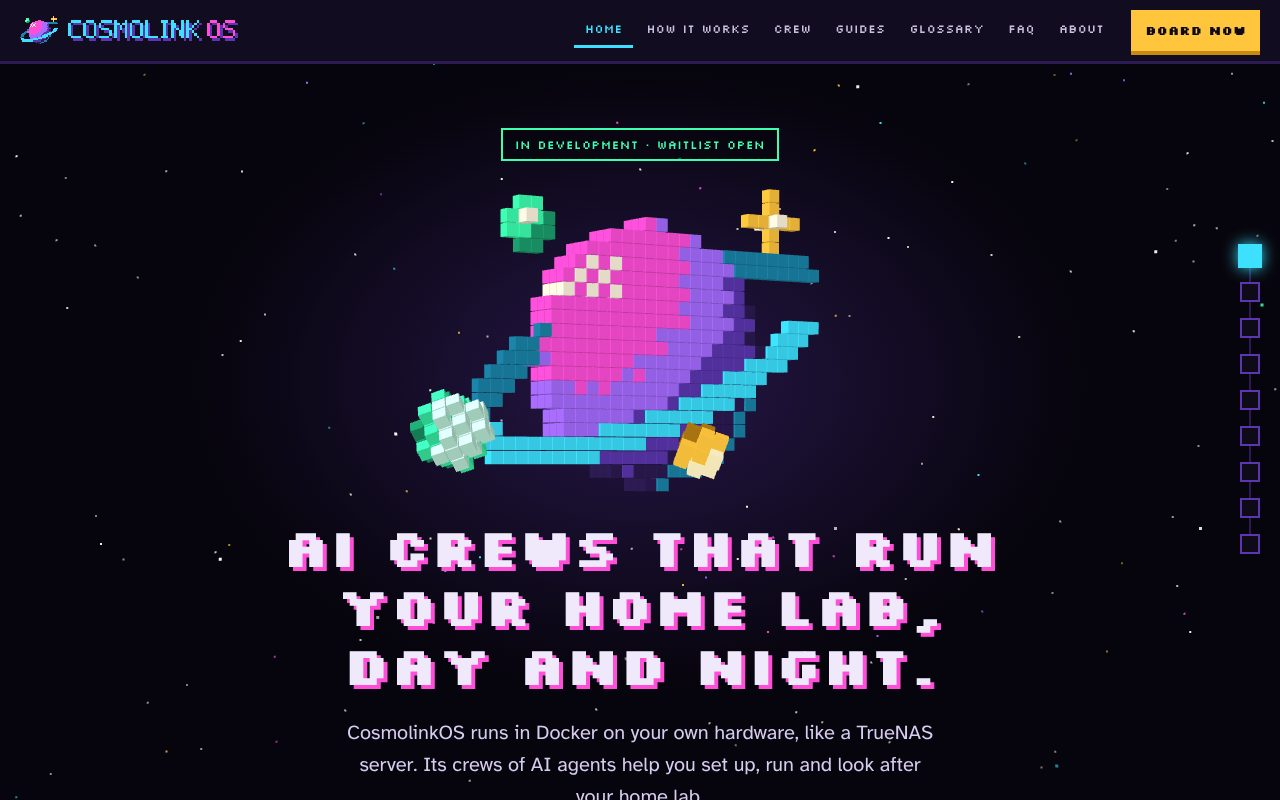
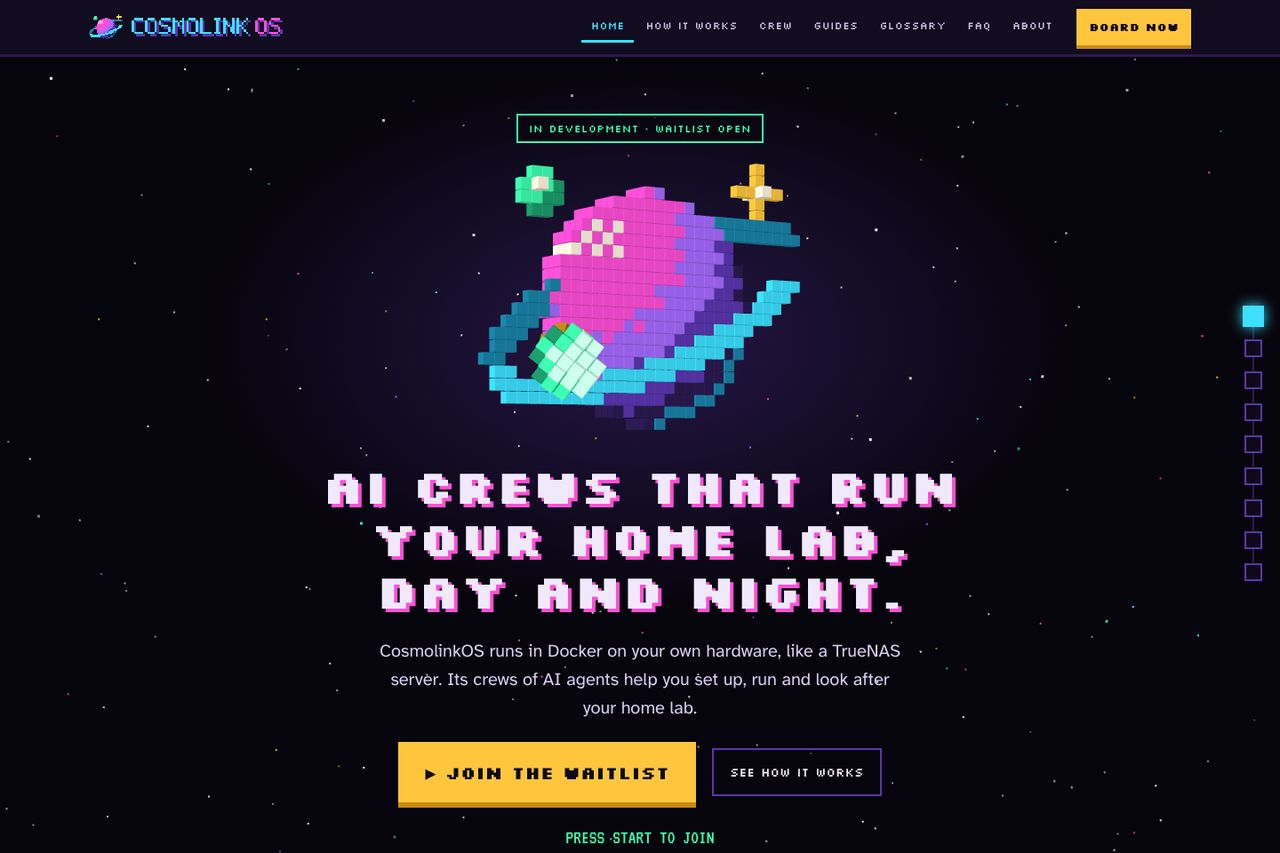
Use XpertCare and XpertCore in the menu, add black to the strip and retake the portfolio screenshot
Claude-Session: https://claude.ai/code/session_01UEox93UV93eDm6nLnQwKbf

Changed region(s): [[0.2188, 0.125, 0.7812, 1.0], [0.0, 0.0, 1.0, 0.0938], [0.9375, 0.2812, 1.0, 0.6875]]

diff --git a/src/fragments/home-lower.html b/src/fragments/home-lower.html
@@ -16,7 +16,7 @@
     <div class="panel svc rv"><div class="ill build" aria-hidden="true"><b></b><i style="--w:62%;--n:0"></i><i style="--w:88%;--n:1"></i><i style="--w:74%;--n:2"></i><u style="--n:3"></u><s style="--n:2"></s><em></em></div><h3><a href="/website-design/">Website building</a></h3><p>A new website for your business, forged with XpertCore, our own AI website builder, and finished by hand, built from the ground up to be found on Google and AI.</p><a class="more" href="/website-design/">How website design works</a></div>
     <div class="panel svc rv" style="--d:1"><div class="ill care" aria-hidden="true"><i style="--n:0"></i><i style="--n:1"></i><i style="--n:2"></i><i style="--n:3"></i><i style="--n:4"></i><i style="--n:5"></i><i style="--n:6"></i><i style="--n:7"></i><i style="--n:8"></i><i style="--n:9"></i><i style="--n:10"></i><i style="--n:11"></i><b></b></div><h3><a href="/website-maintenance/">Monthly care</a></h3><p>XpertCare keeps the website we build for you hosted, updated, backed up and growing with new content, month after month.</p><a class="more" href="/website-maintenance/">What website maintenance covers</a></div>
     <div class="panel rv"><ul class="minip"><li><span>XpertForge Starter</span><b>RM499</b></li><li class="hot"><span>XpertForge Business</span><b>RM999</b></li><li><span>XpertForge Growth</span><b>RM1,799</b></li><li class="care"><span>XpertCare monthly</span><b>from RM55</b></li></ul><h3><a href="/packages/">Website design packages</a></h3><p>One price to build your website, with copywriting and keyword research included. Add XpertCare monthly care, with hosting included, if you want it.</p><a class="more" href="/packages/">Compare packages and build your plan</a></div>
-    <div class="panel rv" style="--d:1"><a class="workshot" href="/website-design/#work" tabindex="-1" aria-hidden="true"><img src="/work/cosmolinkos.jpg" alt="" width="1280" height="800" loading="lazy" decoding="async"></a><h3><a href="/website-design/#work">Our work</a></h3><p>CosmolinkOS: an animated 3D product website with guides, a glossary and a waitlist.</p><a class="more" href="/website-design/#work">See the website design we have built</a></div>
+    <div class="panel rv" style="--d:1"><a class="workshot" href="/website-design/#work" tabindex="-1" aria-hidden="true"><img src="/work/cosmolinkos.jpg" alt="" width="1280" height="853" loading="lazy" decoding="async"></a><h3><a href="/website-design/#work">Our work</a></h3><p>CosmolinkOS: an animated 3D product website with guides, a glossary and a waitlist.</p><a class="more" href="/website-design/#work">See the website design we have built</a></div>
   </div>
 </div></section>
 <div class="marquee" aria-hidden="true"><div class="track"><span>XpertForge</span><span>XpertCore</span><span>Google</span><span>AI search</span><span>XpertCare</span><span>XpertForge</span><span>XpertCore</span><span>Google</span><span>AI search</span><span>XpertCare</span><span>XpertForge</span><span>XpertCore</span><span>Google</span><span>AI search</span><span>XpertCare</span></div></div>

diff --git a/src/styles/site.css b/src/styles/site.css
@@ -93,6 +93,8 @@ h1 em{font-style:normal;color:var(--acc)}
 .marquee .track{display:flex;width:max-content;animation:slide 34s linear infinite}
 .marquee span{font:800 clamp(52px,8vw,110px)/1.1 var(--f-d);letter-spacing:-.045em;padding-right:.45em;color:transparent;-webkit-text-stroke:1.5px #cdb6ea;white-space:nowrap}
 .marquee span:nth-child(5n+2){color:var(--acc);-webkit-text-stroke:0}
+.marquee span:nth-child(5n+4){color:var(--ink);-webkit-text-stroke:0}
+.marquee span:nth-child(5n){-webkit-text-stroke-color:var(--ink)}
 
 /* FAQ as an AI chat */
 .faqbox{display:grid;grid-template-columns:1fr 1.25fr;gap:18px;align-items:stretch}

diff --git a/CLAUDE.md b/CLAUDE.md
@@ -15,7 +15,7 @@ Owner: Suhen (a beginner: explain in plain words, small steps, one question at a
 
 ## SEO wording (from Ubersuggest research, 2026-11)
 - People search "website design" and "website maintenance". Use those in titles, H1s, URLs and descriptions.
-- "Website building" and "Monthly care" are the friendly menu labels.
+- Menu labels (Suhen, 2026-11-11): Website building, XpertCare, XpertCore, Packages, Demos, About, FAQ. Suhen did not like "Monthly care" and "AI builder" in the menu.
 - Every page: one H1, title 20 to 65 characters, description 70 to 170, answer first copy, structured data that matches the visible text.
 
 ## Where things are
